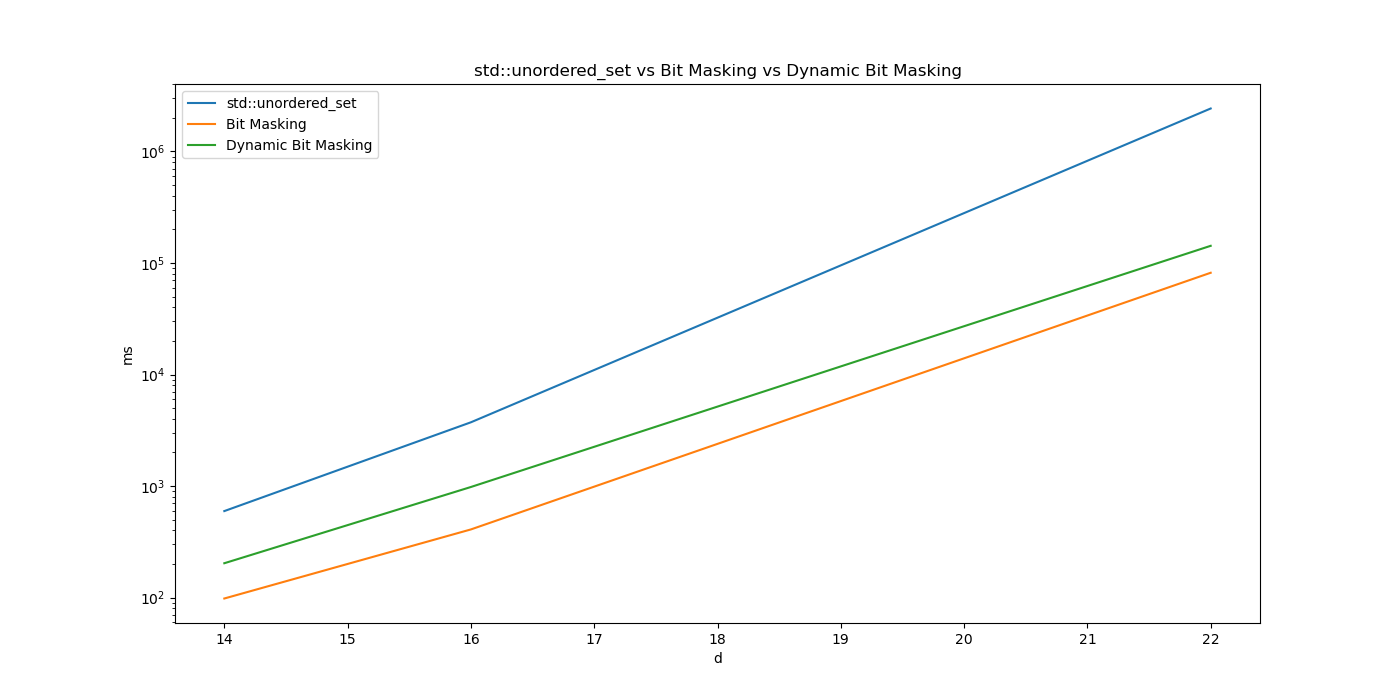
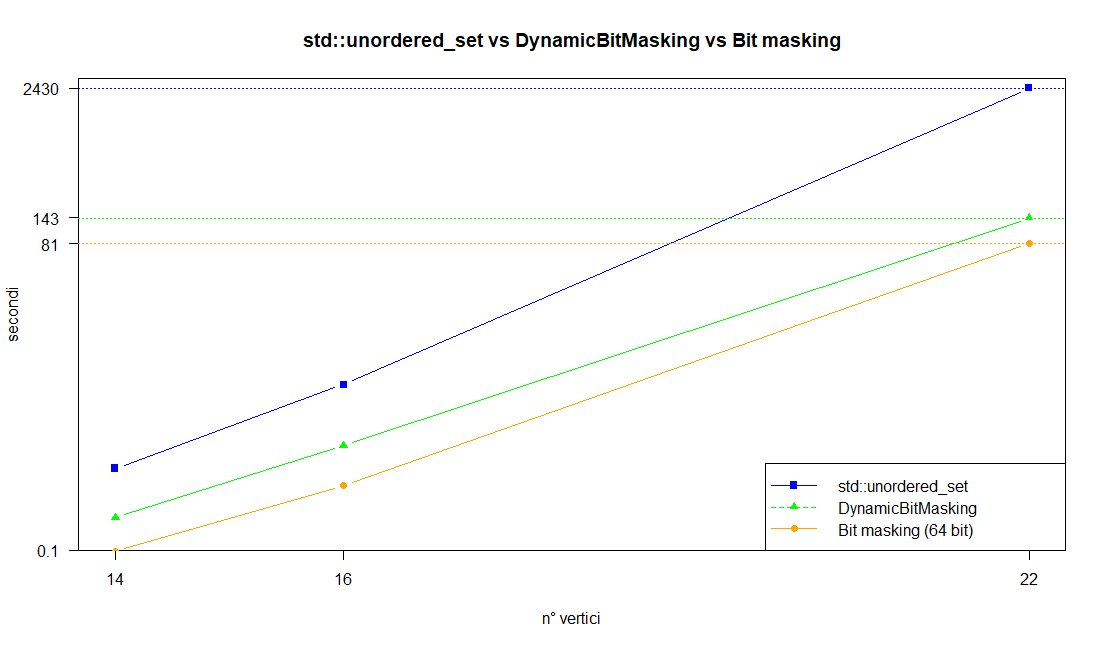
Polished report

diff --git a/report/chapters/5-implementation-choices.tex b/report/chapters/5-implementation-choices.tex
@@ -201,13 +201,15 @@ Inoltre, le strutture dati usate sono sempre pre-allocate in memoria quando poss
 
 \noindent Le strutture dati relative alle Heap e alle code di priorità necessarie per l'algoritmo di Prim sono già state ampiamente documentate nell'homework 1.
 
-\subsection{Rappresentazioni dei grafi alternative}
+\subsection{Rappresentazione alternativa dei grafi}
+\label{alternative-graph-representation}
 
 \noindent L'algoritmo di $2$-approssimazione basato sul calcolo del Minimum Spanning Tree fa uso di due rappresentazioni diverse per i grafi.
 \codeinline{DistanceMatrix.h} è usato per leggere il grafo in input ed eseguirne l'algoritmo di Prim (che è stato adattato dal precedente homework). \codeinline{AdjacencyMapGraph.h}, che contiene un subset definite per la Mappa di Adiacenza definita nel precedente homework, è invece usata per rappresentare il Minimum Spanning Tree all'interno di \codeinline{DFS.h}, che lo scorre per generare il vettore della visita \textit{Preorder}. Questa scelta è dovuta al fatto che l'MST non è completo come il grafo di input, e anzi contiene solo $n - 1$ archi. Una Matrice di adiacenza è quindi inutilmente costosa in termini di spazio in questo caso.
 
 \newpage
 \subsection{Rappresentazione dei circuiti parziali di Held \& Karp}
+\label{held-karp-repr-S}
 
 L'algoritmo Held-Karp richiede esplicitamente l'uso di due vettori:
 \begin{itemize}
@@ -244,7 +246,7 @@ Di seguito sono presentate le 3 possibili soluzioni che abbiamo individuato per 
 
 \noindent Notiamo inoltre che la libreria standard non definisce alcun metodo \\ \mintinline{c++}{std::hash<std::unordered_set<T>>}, quindi è spettata a noi la definizione della \textit{hash function} per questa struttura dati. Si veda la sezione \ref{hashing} per ulteriori informazioni. TODO: aggiungere questa sezione.
 
-\begin{table}
+\begin{table}[h]
   \centering
     \begin{tabular}{|c | c|}
     \hline
@@ -269,7 +271,15 @@ Di seguito sono presentate le 3 possibili soluzioni che abbiamo individuato per 
 
 \paragraph{Tecnica bit masking}\mbox{}\\
 
-\begin{table}
+\noindent \textbf{Premessa}: per questo metodo, abbiamo assunto che i programmi saranno eseguiti solo su architetture a 64 bit. I grafi con più di 63 nodi non possono essere rappresentati con questo metodo. \\
+
+\noindent Una soluzione migliore per rappresentare in maniera estremamente compatta il set di nodi visitati $S$ è usare un singolo numero intero senza segno a 64 bit. In questo caso, ogni bit a 1 rappresenta la presenza di un vertice $i$ nell'insieme $S$.
+Se il bit all'$i$-esima posizione nel numero vale 1, allora il vertice $i \in S$, se il bit vale invece 0 allora $i \notin S$. La tabella \ref{tab:pro-cons-bit-masking} evidenzia i pro e i contro di questo approccio. \\
+
+\noindent Nel nostro linguaggio, il tipo necessario a definire numeri interi senza segno a 64 bit è \\
+\mintinline{c++}{unsigned long long}. Si consideri l'esempio in figura \ref{fig:bitmasking-example} per vedere come è possibile rappresentare $S$ in questo modo.
+
+\begin{table}[h]
   \centering
     \begin{tabular}{|c | c|}
     \hline
@@ -285,14 +295,6 @@ Di seguito sono presentate le 3 possibili soluzioni che abbiamo individuato per 
     \caption{Analisi dei pro e contro della tecnica bit masking per numeri interi senza segno.}
     \label{tab:pro-cons-bit-masking}
 \end{table}
-
-\noindent \textbf{Premessa}: per questo metodo, abbiamo assunto che i programmi saranno eseguiti solo su architetture a 64 bit. I grafi con più di 63 nodi non possono essere rappresentati con questo metodo. \\
-
-\noindent Una soluzione migliore per rappresentare in maniera estremamente compatta il set di nodi visitati $S$ è usare un singolo numero intero senza segno a 64 bit. In questo caso, ogni bit a 1 rappresenta la presenza di un vertice $i$ nell'insieme $S$.
-Se il bit all'$i$-esima posizione nel numero vale 1, allora il vertice $i \in S$, se il bit vale invece 0 allora $i \notin S$. La tabella \ref{tab:pro-cons-bit-masking} evidenzia i pro e i contro di questo approccio. \\
-
-\noindent Nel nostro linguaggio, il tipo necessario a definire numeri interi senza segno a 64 bit è \\
-\mintinline{c++}{unsigned long long}. Si consideri l'esempio in figura \ref{fig:bitmasking-example} per vedere come è possibile rappresentare $S$ in questo modo.
 
 \begin{figure}[h]
 	\centering
@@ -314,7 +316,7 @@ Poiché questo tipo di operazioni si traduce in una singola istruzione Assembly,
 
 \paragraph{Struttura dati ad-hoc: DynamicBitMasking}\mbox{} \\
 
-Per superare il limite della rappresentazione tramite BitMasking per più di 63 nodi si è pensato di estendere l'idea del BitMasking non più ad un solo numero, ma a più numeri. In questo modo se il set S può raggiungere cardinalità più grandi di 64 nodi è possibile rappresentarlo con più di un numero, dove il primo numero rappresenta i primi 64 nodi, il secondo i successivi 64 nodi e così via. Per fare questo abbiamo dichiarato un'apposita classe chiamata \textit{DynamicBitMasking} che tramite un \textit{std::vector} di \textit{unsigned long long} è in grado di rappresentare qualunque set S. In questo modo, data una posizione di un bit $i$, è sufficiente ricavarsi l'indice del vettore dove risiede il numero che contiene il bit $i$ (tramite la divisione intera di $i$ con 64) e la posizione del bit all'interno del numero (tramite il resto della divisione di $i$ con 64). Nell'esempio raffigurato in figura \ref{fig:DynamicBitMasking-example} è possibile vedere come lo stesso set S visto nell'esempio precedente ora possa essere rappresentato tramite questa nuova struttura dati.
+Per superare il limite della rappresentazione tramite BitMasking per più di 63 nodi si è pensato di estendere l'idea del BitMasking non più ad un solo numero, ma a più numeri. In questo modo se il set S può raggiungere cardinalità più grandi di 64 nodi è possibile rappresentarlo con più di un numero, dove il primo numero rappresenta i primi 64 nodi, il secondo i successivi 64 nodi e così via. Per fare questo abbiamo dichiarato un'apposita classe chiamata \textit{DynamicBitMasking} definita in \codeinline{HeldKarp/DynamicBitMasking.h} che tramite un \mintinline{c++}{std::vector<unsigned long long>} rappresenta un qualunque set S. In questo modo, data una posizione di un bit $i$, è sufficiente ricavarsi l'indice del vettore dove risiede il numero che contiene il bit $i$ (tramite la divisione intera di $i$ con 64) e la posizione del bit all'interno del numero (tramite il resto della divisione di $i$ con 64). Nell'esempio raffigurato in figura \ref{fig:DynamicBitMasking-example} è possibile vedere come lo stesso set S visto nell'esempio precedente ora possa essere rappresentato tramite questa nuova struttura dati.
 
 \begin{figure}[h]
 	\centering
@@ -323,19 +325,29 @@ Per superare il limite della rappresentazione tramite BitMasking per più di 63 
 	\label{fig:DynamicBitMasking-example}
 \end{figure}
 
-\paragraph{Confronto tra unordered\_set, BitMasking ed DynamicBitMasking}
-In questo paragrafo vogliamo mettere a confronto le performance in termini di complessità spaziali e temporali delle 3 soluzioni proposte. Nella grafico riportato in figura \ref{fig:UnorderedvsDynamicBitMasking} abbiamo voluto mettere a confronto i tempi esatti dell'esecuzione delle 3 varianti proposte con grafi a 14, 16 e 22 nodi.
+\noindent Il tipo della mappa in questo caso è:
+
+\begin{center}
+    \mintinline{c++}{std::unordered_map<std::pair<DynamicBitMasking, size_t>, int>}
+\end{center}
+
+\subsubsection{Confronto tra std::unordered\_set, bit masking e DynamicBitMasking}
+
+In questa sezione mostriamo un confronto tra le performance in termini di complessità spaziali e temporali delle 3 soluzioni proposte. Nel grafico riportato in figura \ref{fig:UnorderedvsDynamicBitMasking} abbiamo comparato i tempi d'esecuzione di HeldKarp (senza timeout) con le 3 strutture dati descritte nella sezione \ref{held-karp-repr-S}.
+Come input, abbiamo considerato i dataset \codeinline{burma14}, \codeinline{ulysses16} e \codeinline{ulysses22}, aventi rispettivamente 14, 16, e 22 nodi.
 
 \begin{figure}[h]
 	\centering
 	\includegraphics[width=1\textwidth]{./images/unorderedSet vs BitMasking.png}
-	\caption{Confronto dei tempi di esecuzione di Held-Karp al crescere del numero di nodi usando unordered\_set, BitMasking ed DynamicBitMasking. I dataset usati per il confronto sono \codeinline{burma14}, \codeinline{ulysses16} e \codeinline{ulysses22}.}
+	\caption{Confronto dei tempi di esecuzione di Held-Karp al crescere del numero di nodi usando unordered\_set, BitMasking ed DynamicBitMasking. I dataset usati per il confronto sono \codeinline{burma14}, \codeinline{ulysses16} e \codeinline{ulysses22}. Si noti che l'asse delle ordinate è in scala logaritmica.}
 	\label{fig:UnorderedvsDynamicBitMasking}
 \end{figure}
 
-Come è possibili notare, l'implementazione più veloce risulta essere il BitMasking a 64 bit, in quanto utilizzando un solo numero per rappresentare i nodi in S, l'overhead è inferiore rispetto alle operazioni da svolgere per DynamicBitMasking che deve calcolarsi la posizione del bit all'interno di più numeri. In ogni caso DynamicBitMasking è in grado di svolgere egregiamente il suo lavoro, avendo un tempo di esecuzione molto inferiore rispetto alla soluzione semplice con unordered\_set.
+\noindent Com'era prevedibile, l'implementazione più veloce risulta essere l'applicazione della tecnica \textit{bit masking} che manipola un singolo numero intero senza segno a 64 bit; l'overhead delle operazioni in questo caso è infatti minimo, come minima è l'occupazione spaziale ($S$ ha un'uccupazione costante di 8 byte). \\
 
-Visti i seguenti risultati si è quindi deciso di utilizzare la versione BitMasking a 64 bit per i grafi con meno di 64 nodi e la versione DynamicBitMasking per i grafi con più di 64 nodi.
+\noindent \mintinline{c++}{std::unordered_set<size_t>}, al contrario, ha i tempi più esecuzioni più elevati, almeno un ordine di grandezza più lunghi rispetto alla struttura dati realizzata ad-hoc, DynamicBitMasking. \\
+
+\noindent Visti i risultati sperimentali, abbiamo quindi deciso di usare bit-masking a 64 bit per implementare l'algoritmo di Held \& Karp con grafi aventi meno di 64 nodi, e DynamicBitMasking per eseguire Held \& Karp su grafi di dimensioni maggiori.
 
 \subsection{Timeout}
 

diff --git a/report/chapters/6-algorithms.tex b/report/chapters/6-algorithms.tex
@@ -18,26 +18,26 @@ MST2Approximation è l'implementazione dell'algoritmo di $2$-approssimazione bas
 
 \begin{listing}[!ht]
 \begin{minted}{c++}
-    // MST2Approximation/approx_tsp.h
+// MST2Approximation/approx_tsp.h
 
-    // Step 1
-    random_generator::IntegerRandomGenerator random(0, distance_matrix.size() - 1);
-    const size_t root = random();
+// Step 1
+random_generator::IntegerRandomGenerator random(0, distance_matrix.size() - 1);
+const size_t root = random();
 
-    // Step 2
-    std::vector<Edge> mst(mst::prim_binary_heap_mst(distance_matrix, root));
+// Step 2
+std::vector<Edge> mst(mst::prim_binary_heap_mst(distance_matrix, root));
 
-    // Step 3, 4
-    DFS dfs(std::move(mst));
-    const auto circuit = dfs.preorder_traversal_rec();
+// Step 3, 4
+DFS dfs(std::move(mst));
+const auto circuit = dfs.preorder_traversal();
 
-    // Funzione lambda che calcola la distanza tra due vertici
-    const auto get_distance = [&distance_matrix](const size_t x, const size_t y) {
-        return distance_matrix.at(x, y);
-    };
+// Funzione lambda che calcola la distanza tra due vertici
+const auto get_distance = [&distance_matrix](const size_t x, const size_t y) {
+    return distance_matrix.at(x, y);
+};
 
-    // Step 5
-    return utils::sum_weights_in_circuit(circuit.cbegin(), circuit.cend(), get_distance);
+// Step 5
+return utils::sum_weights_in_circuit(circuit.cbegin(), circuit.cend(), get_distance);
 \end{minted}
 \caption{Implementazione di TSP 2-approssimato. I commenti del file originale sono stati omessi per una maggiore compattezza.}
 \label{listing:tsp2approx}
@@ -51,7 +51,33 @@ MST2Approximation è l'implementazione dell'algoritmo di $2$-approssimazione bas
     \item Abbiamo usato l'algoritmo di Prim perché è più adatto rispetto a Kruskal quando il grafo è rappresentato come matrice di adiacenza. Kruskal infatti richiede di estrarre la lista di lati ordinata in modo ascendente rispetto al peso all'inizio dell'algoritmo, mentre Prim richiede di estrarre solo la lista dei vertici. Ricordiamo che in un grafo completo vale l'equivalenza \complexityCompleteGraph{}.
 
     \item La coda di priorità usata dall'algoritmo di Prim è stata implementata con una Min Heap binaria, la quale è già stata descritta in dettaglio nella relazione del primo progetto.
+    
+    \item Come notato nella sezione \hyperref[alternative-graph-representation]{Rappresentazione alternativa dei grafi}, l'albero di copertura minimo è rappresentato come Mappa di Adiacenza all'interno di \codeinline{Shared/DFS.h}.
+    
+    \item Il metodo \mintinline{c++}{DFS::preorder_traversal} invoca al suo interno il metodo ricorsivo \\
+    \mintinline{c++}{DFS::preorder_traversal_rec}. Il listato \ref{listing:dfs} contiene la definizione di tale metodo.
 \end{itemize}
+
+\begin{listing}[!ht]
+\begin{minted}{c++}
+// Shared/DFS.h
+
+void preorder_traversal_rec(size_t v, std::unordered_set<size_t>& visited,
+                            std::vector<size_t>& circuit) const {
+  visited.insert(v);
+  circuit.push_back(v);
+
+  for (const auto& [u, _] : adjacency_map.adjacent_vertexes(v)) {
+    // if an adjacent node hasn't been visited, visit it recursively
+    if (!visited.count(u)) {
+      preorder_traversal_rec(u, visited, circuit);
+    }
+  }
+}
+\end{minted}
+\caption{Implementazione ricorsiva della visita preorder, inizialmente invocata sul nodo $0$. I commenti del file originale sono stati omessi per una maggiore compattezza.}
+\label{listing:dfs}
+\end{listing}
 
 \subsection{HeldKarp}
 
@@ -160,7 +186,7 @@ particolare:
     \item per l'inserimento, si trova l’arco ${i, j}$ del circuito parziale che
       minimizza il valore $w(i, k) + w(k, j) - w(i, j)$ e lo si inserisce
       $k$ tra $i$ e $j$;
-    \item si ripete da \ref{pseudo:farthest-insertion-selection} finché
+    \item si ripete da \ref{pseudo:closest-insertion-selection} finché
 tutti i vertici non sono stati inseriti nel circuito.
 \end{enumerate}
 
@@ -180,10 +206,10 @@ const auto get_distance = [&distance_matrix](const size_t x, const size_t y) {
     return distance_matrix.at(x, y);
 };
 
-// Insieme degli nodi ancora non visitati.
+// Insieme degli nodi ancora non visitati, inizialmente sono tutti i nodi.
 std::unordered_set<size_t> not_visited = utils::generate_range_set(size);
 
-// Inizializzazone.
+// Step 1: inizializzazione
 const size_t first_node = rand_int();
 const size_t second_node = distance_matrix.get_closest_node(first_node);
 
@@ -193,7 +219,7 @@ circuit.reserve(size);
 not_visited.erase(first_node);
 not_visited.erase(second_node);
 
-// Selezione del nodo k che minimizza d(k, circuit).
+// Step 2: selezione del nodo k che minimizza d(k, circuit).
 const size_t k = utils::select_new_k_minimize(not_visited, circuit, get_distance);
 
 // Inserimento del k trovato tra due nodi i e j in modo tale da
@@ -201,18 +227,18 @@ const size_t k = utils::select_new_k_minimize(not_visited, circuit, get_distance
 circuit.emplace_back(k);
 not_visited.erase(k);
 
-// Ripetere selezione e inserimento finché tutti i nodi non sono stati inseriti.
+// Ripetizione di selezione e inserimento finché tutti i nodi non sono stati inseriti.
 while (!not_visited.empty()) {
-    size_t new_k = utils::select_new_k<max_comparator>(
-        not_visited, circuit, get_distance);
+    size_t new_k = utils::select_new_k_minimize(not_visited, circuit, get_distance);
     not_visited.erase(new_k);
-
+    
+    // trova l'arco che minimizza il valore di w(i, k) - w(k, j) - w(i, j)
+    // e inserisce k tra i e j nel circuito
     utils::perform_best_circuit_insertion(new_k, circuit, get_distance);
 }
 
-// Restituire la somma dei pesi del circuito trovato.
-return utils::sum_weights_in_circuit(circuit.cbegin(), circuit.cend(),
-                                     get_distance);
+// Restituzione la somma dei pesi del circuito trovato.
+return utils::sum_weights_in_circuit(circuit.cbegin(), circuit.cend(), get_distance);
 \end{minted}
 \caption{Implementazione di Closest Insertion. I commenti del file originale sono stati omessi per una maggiore compattezza.}
 \label{listing:closest-insertion}

diff --git a/report/chapters/8-extensions-and-originalities.tex b/report/chapters/8-extensions-and-originalities.tex
@@ -2,8 +2,7 @@
 \label{cap:extensions-and-originalities}
 
 \noindent Oltre alle tre implementazioni richieste dalla consegna
-dell'homework, abbiamo deciso di esplorare qualche altra estensione
-degli algoritmi per il problema del commesso viaggiatore.\\
+dell'homework, abbiamo deciso di esplorare qualche altro algoritmo per il problema del commesso viaggiatore negli spazi metrici.\\
 
 \subsection{Farthest Insertion}
 \label{sec:farthest-insertion}
